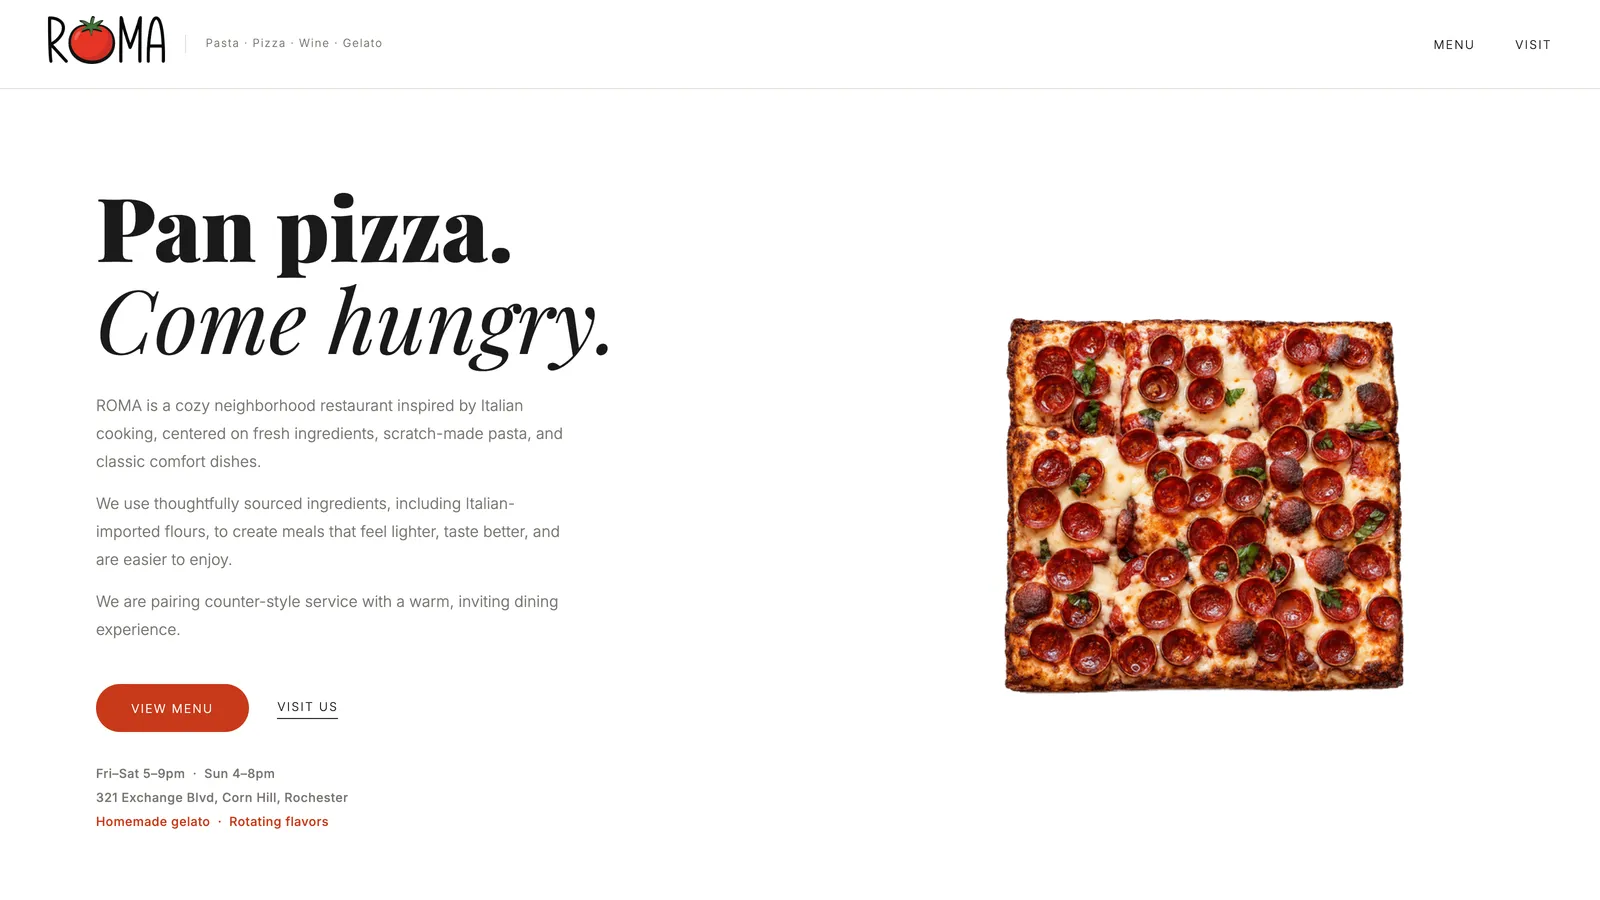
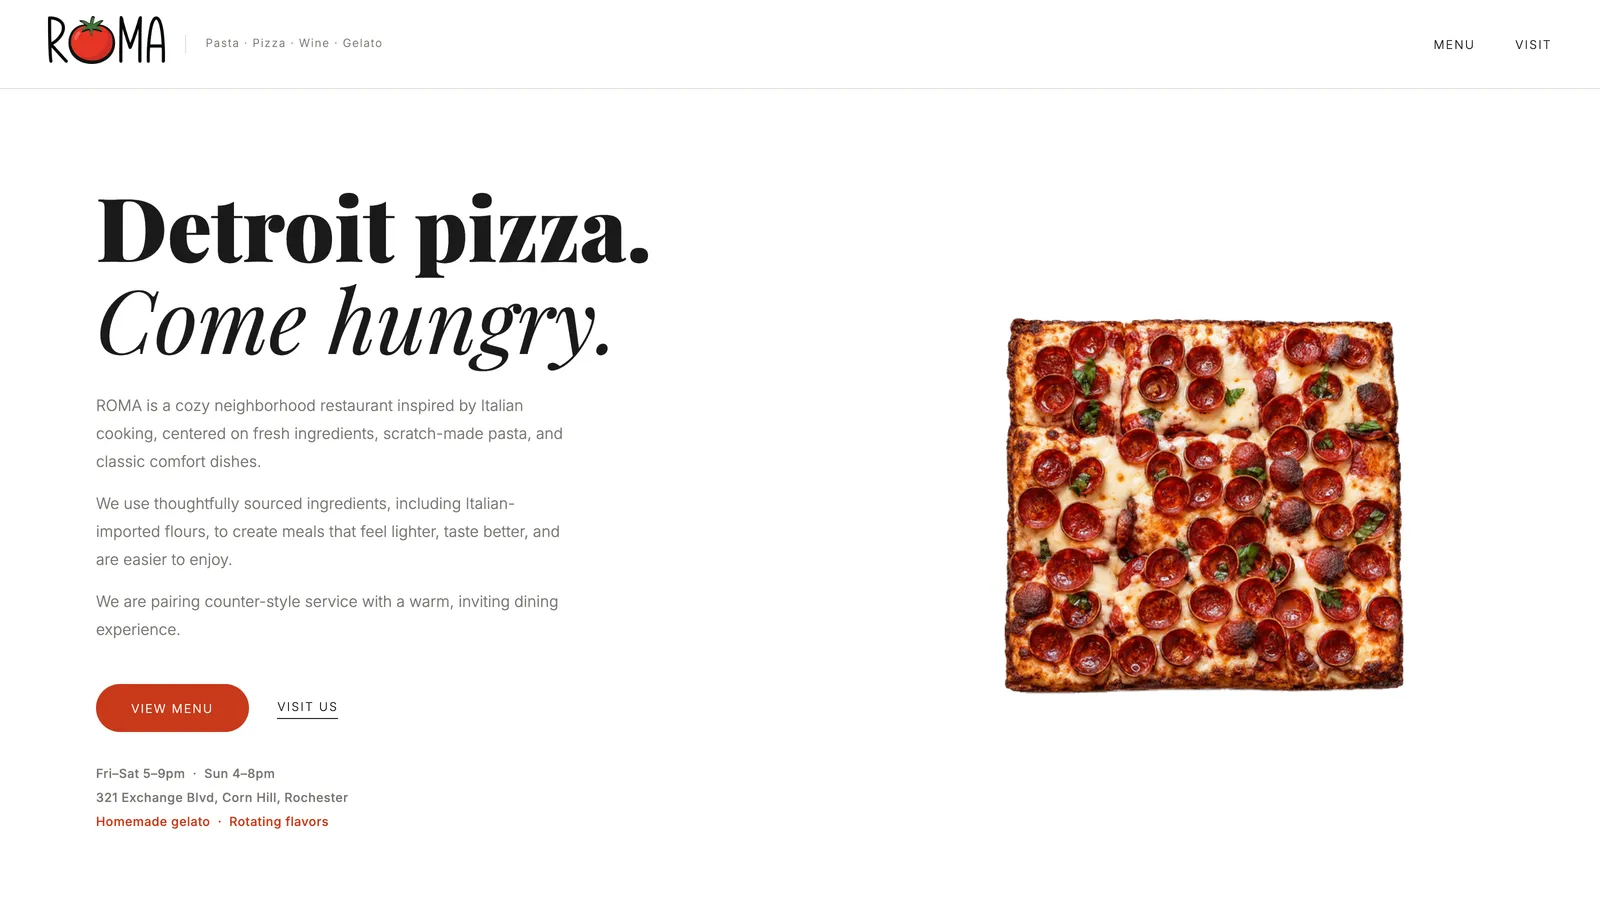
Roma: Detroit pizza headline in captures and case copy

Changed region(s): [[0.0625, 0.2178, 0.4062, 0.3111]]

diff --git a/web/roma.html b/web/roma.html
@@ -76,7 +76,7 @@
 
       <div class="case-body">
         <p>Roma is a small Italian restaurant in Rochester&rsquo;s Corn Hill neighborhood. The pasta is made in house from Italian-imported flour, the gelato changes weekly, and you order at the counter. It is open three evenings a week and it does not pretend otherwise.</p>
-        <p>The restaurant&rsquo;s charm is that it does not fuss, so the site does not either. The headline names whatever is on the plate beside it, pan pizza one moment and scratch pasta the next, and the second line stays put: come hungry. The hours and the address sit right under the first button. There is no reservation system to manage because there are no reservations to take.</p>
+        <p>The restaurant&rsquo;s charm is that it does not fuss, so the site does not either. The headline names whatever is on the plate beside it, Detroit pizza one moment and scratch pasta the next, and the second line stays put: come hungry. The hours and the address sit right under the first button. There is no reservation system to manage because there are no reservations to take.</p>
       </div>
 
       <div class="case-fig">